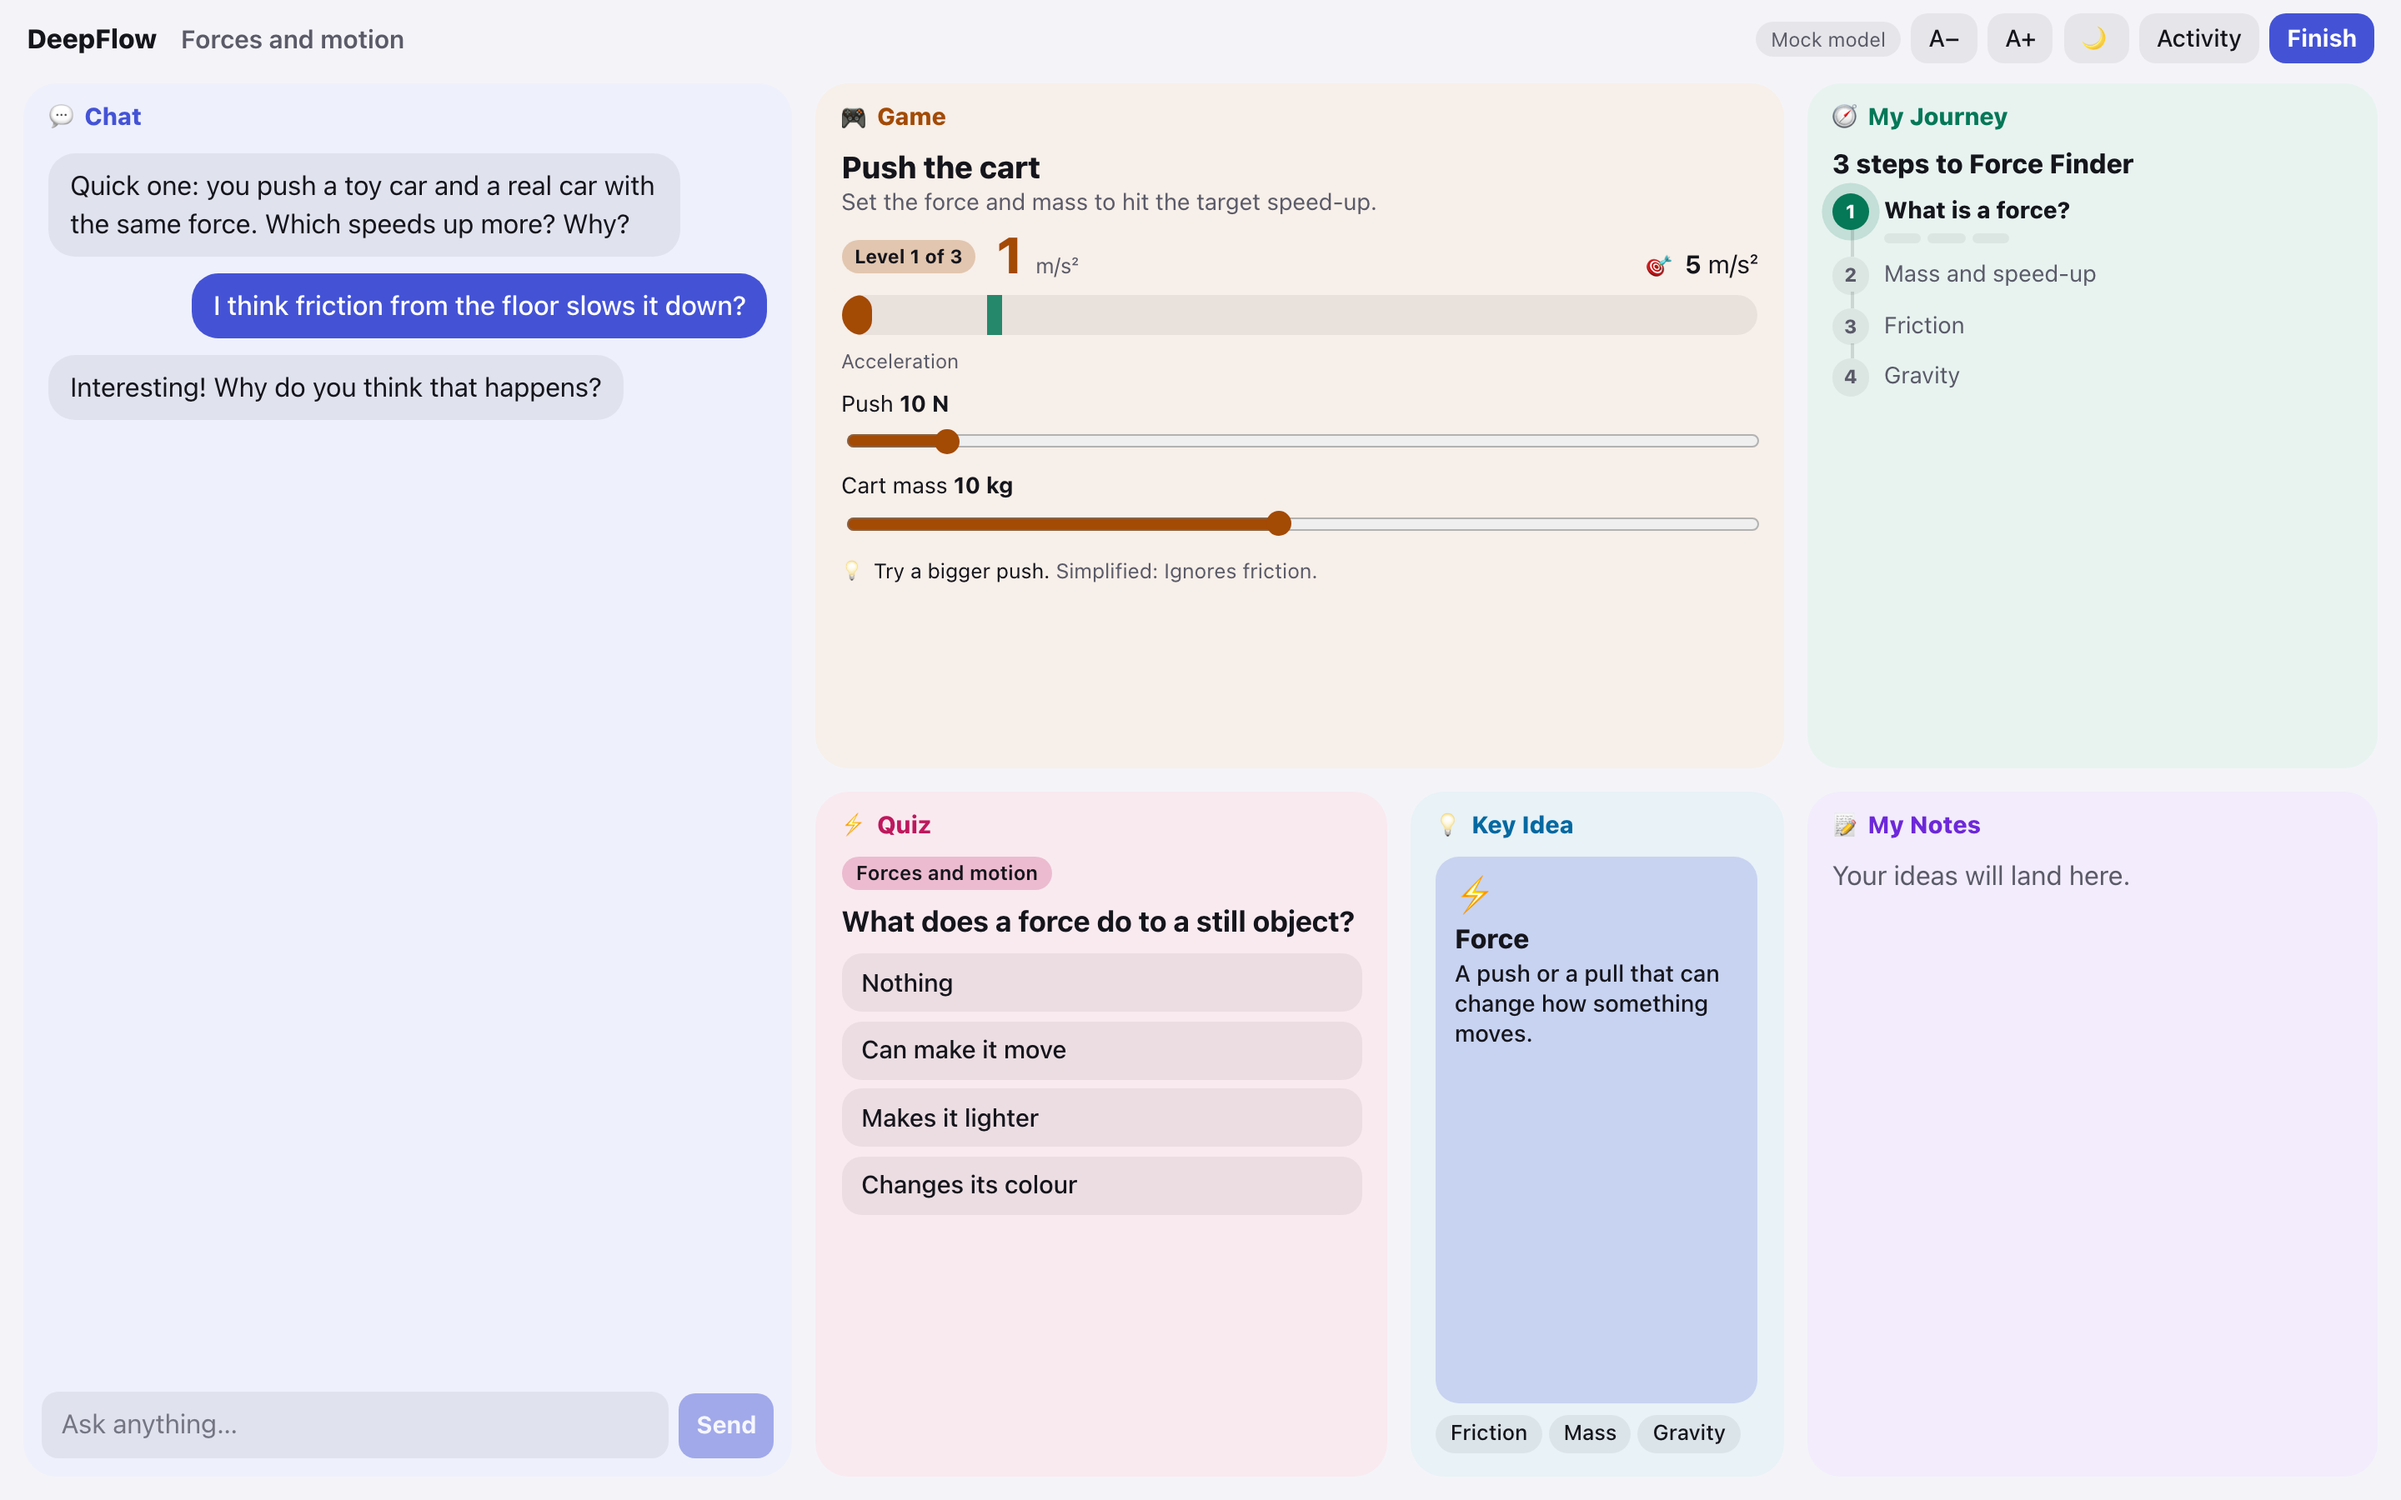
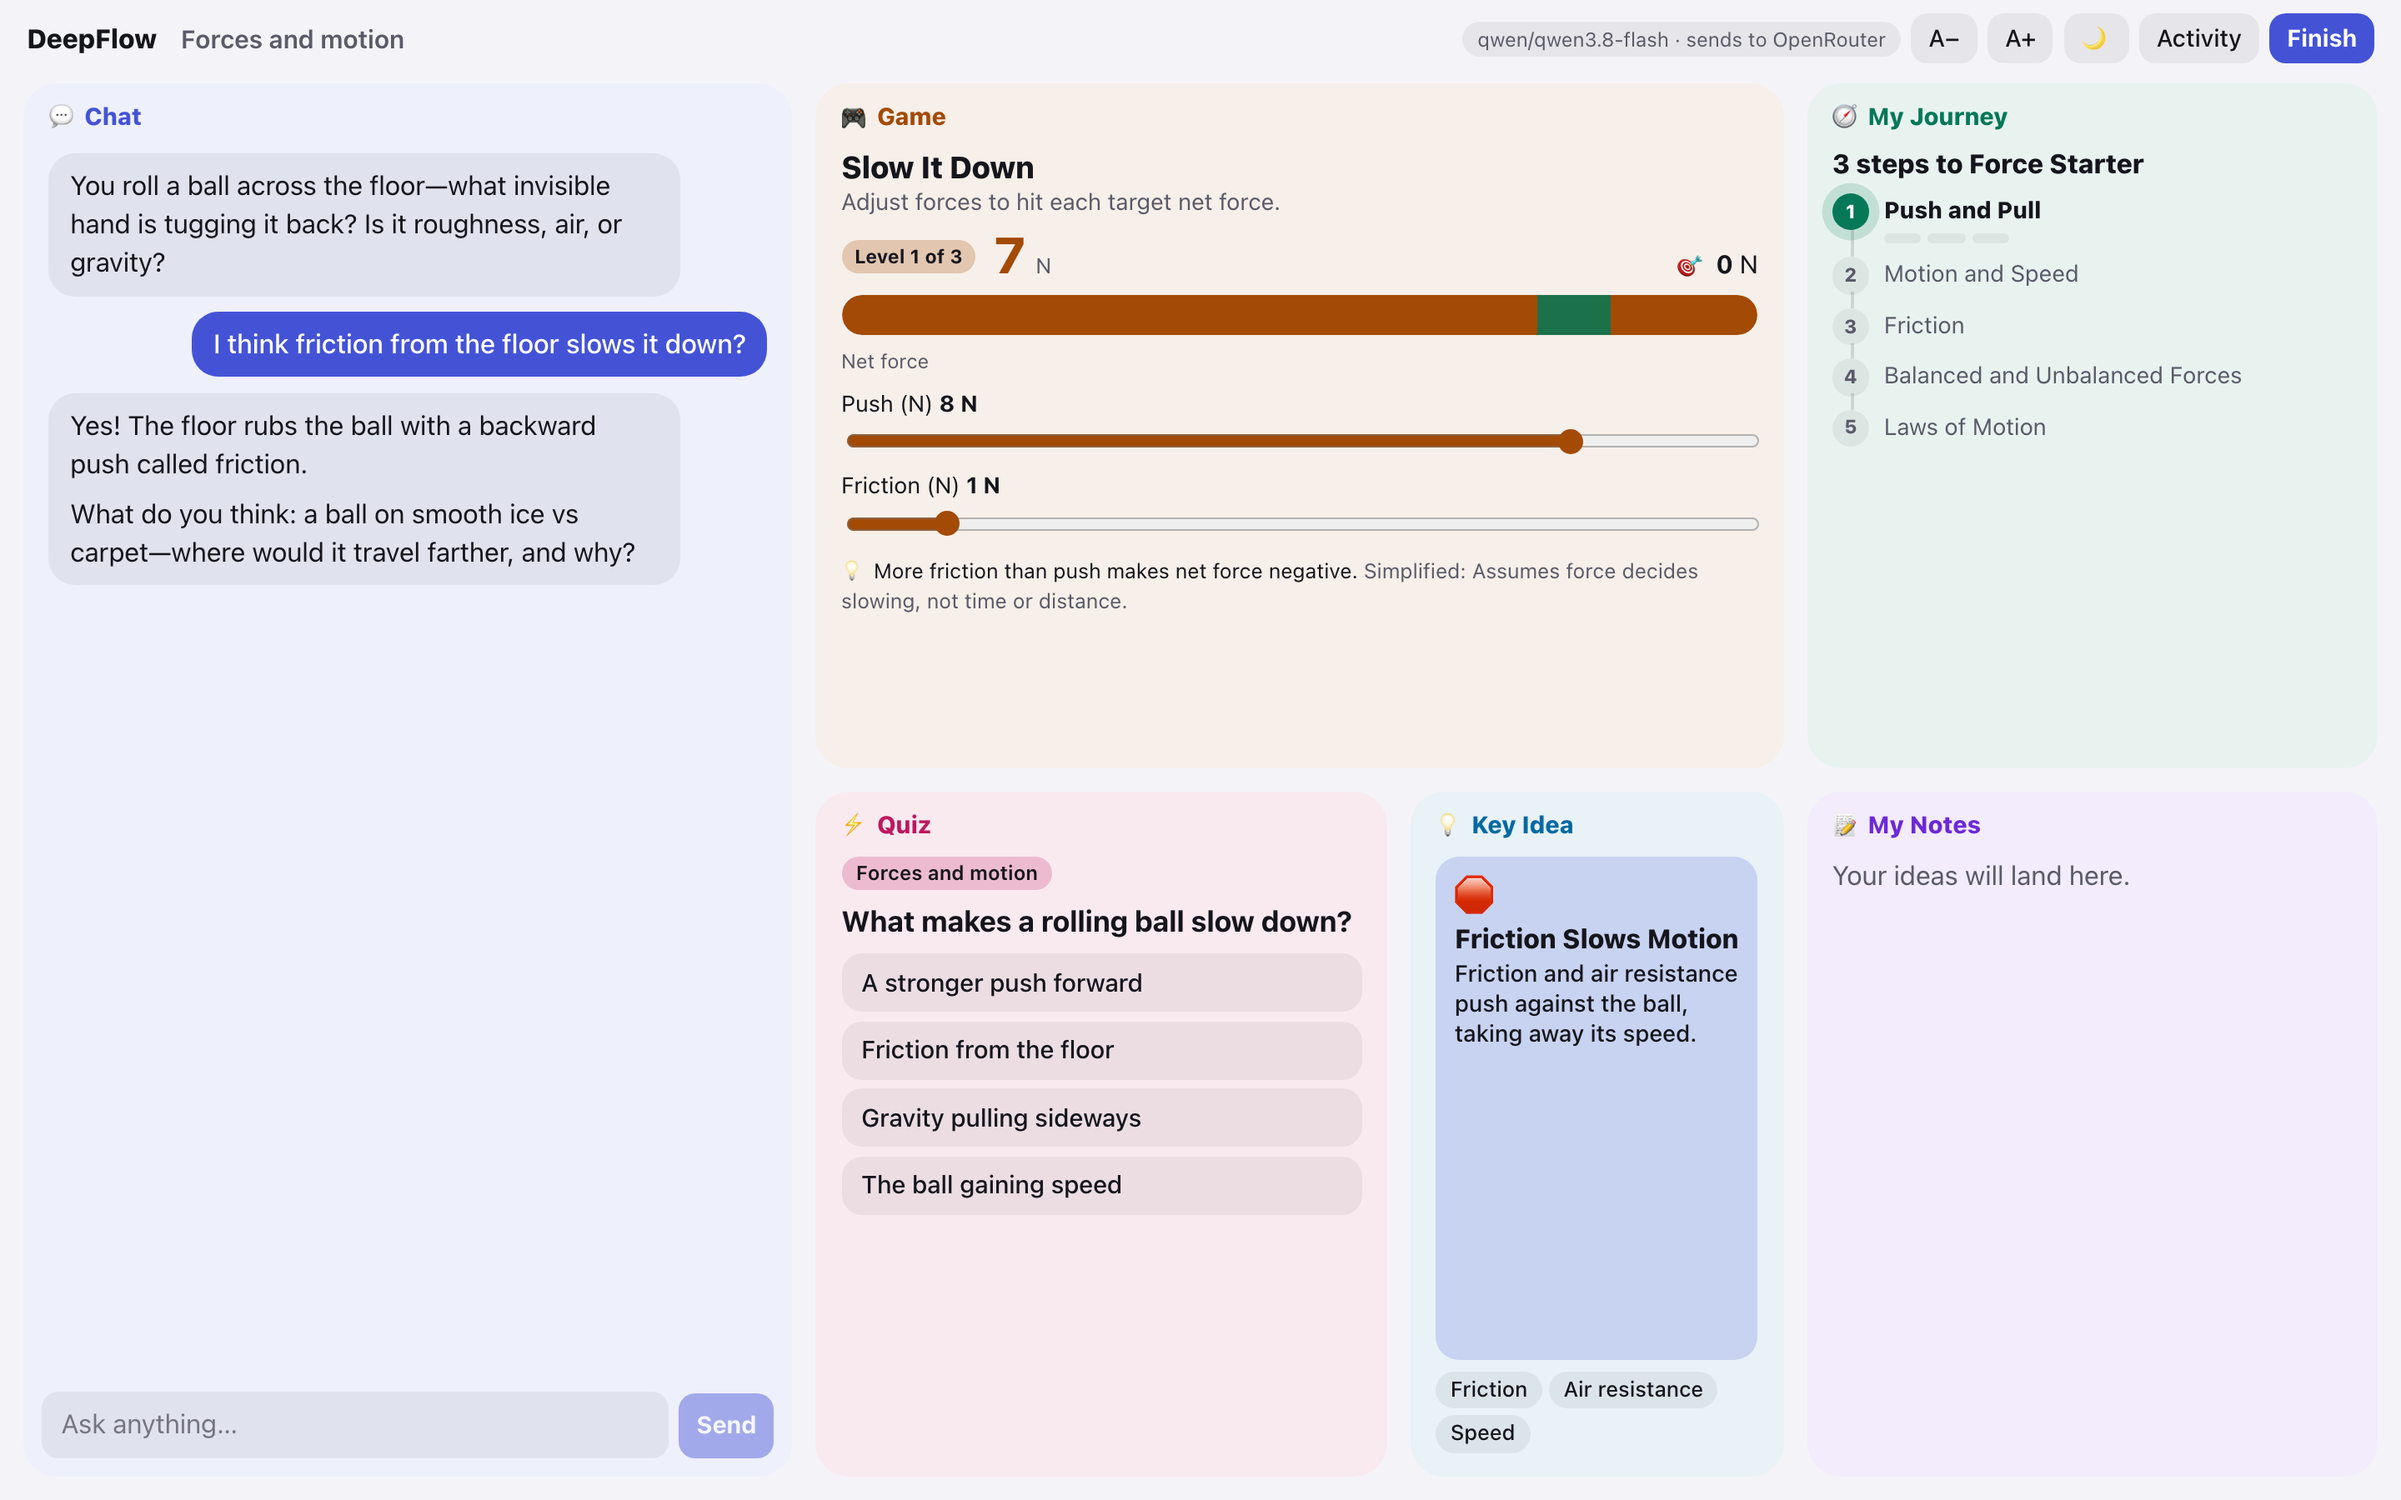
Retake README screenshots with live Qwen content

diff --git a/README.md b/README.md
@@ -4,7 +4,7 @@ An adaptive learning workspace for school students in classes 6 to 12.
 
 A student picks a topic and their class. DeepFlow builds a workspace of live cards around it. An AI harness watches what the student does in each card and adapts the whole workspace to match.
 
-![DeepFlow workspace for "Forces and motion": Chat, a push-the-cart game, My Journey, Quiz, Key Idea and My Notes cards](docs/screenshots/workspace.png)
+![DeepFlow workspace for "Forces and motion": Chat, a friction game, My Journey, Quiz, Key Idea and My Notes cards](docs/screenshots/workspace.png)
 
 ## What a student sees
 
@@ -28,11 +28,11 @@ A student picks a topic and their class. DeepFlow builds a workspace of live car
 |---|---|
 | ![Home page: "What do you want to learn today?" with a topic box, class picker and topics to resume](docs/screenshots/home.png) | ![The same workspace in the light theme](docs/screenshots/workspace-light.png) |
 
-| Maps for history and geography |
-|---|
-| ![Map card for "The Mughal Empire" with numbered pins for Panipat, Agra, Fatehpur Sikri and Delhi](docs/screenshots/map.png) |
+**History and geography topics get a map.** Here, "The Mughal Empire" for class 7, with a timeline game and a quiz:
 
-*Screenshots use the built-in Mock model, so the content is sample content. With a real model, every card is generated for the student's topic and class.*
+![Workspace for "The Mughal Empire": a map with pins from Kabul to Surat, a journey, a timeline game and a quiz](docs/screenshots/history.png)
+
+*All content in these screenshots was generated live by `qwen/qwen3.8-flash` through OpenRouter.*
 
 ## Quick start
 
